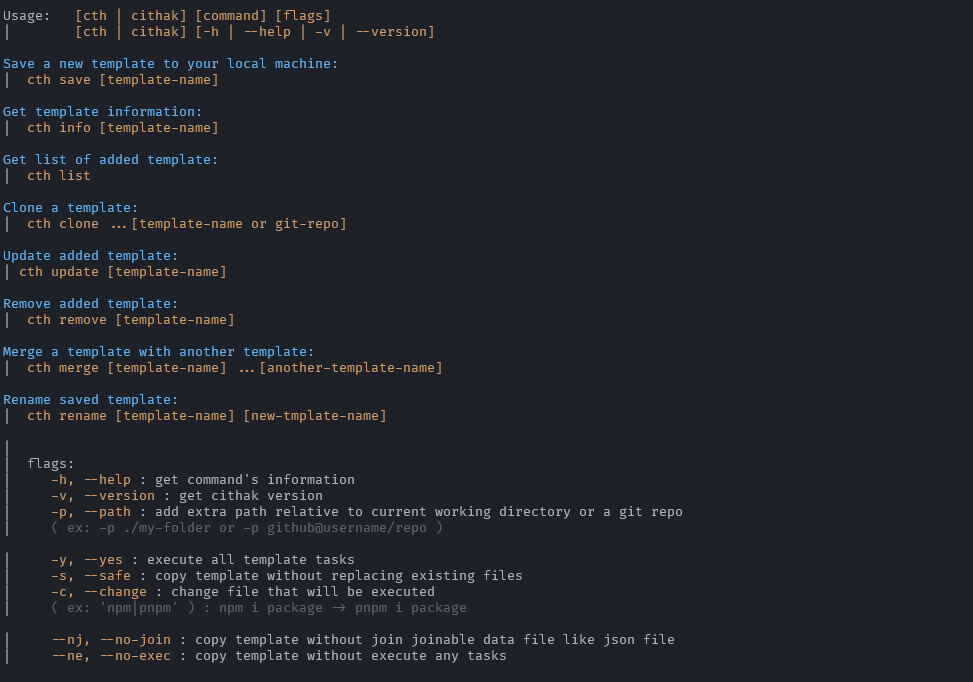
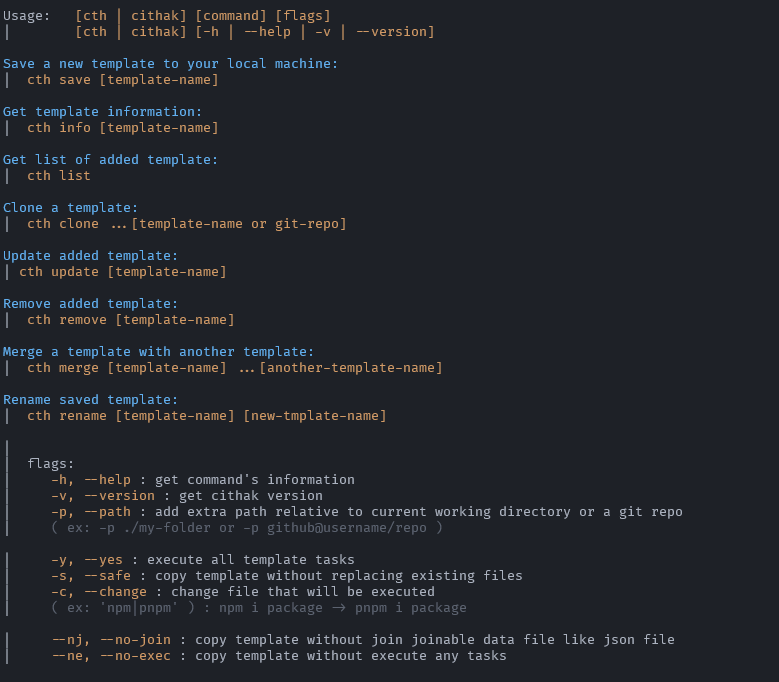
feat: add some features -> 1.0.0

diff --git a/src/helpers/file.js b/src/helpers/file.js
@@ -43,13 +43,13 @@ export function copyFolder(src, dest, options = {}) {
 
   Object.keys(files).forEach((file) => {
     const srcFile = join(src, file)
-    const destFile = join(dest, file.replace(/(?:\.{2}\/?)*/, ''))
+    let destFile = join(dest, file.replace(/(?:\.{2}\/?)*/, ''))
 
     if (fs.lstatSync(srcFile).isDirectory()) {
       // it's a directory
       if (!fs.existsSync(destFile)) {
         fs.mkdirSync(destFile, { recursive: true })
-        console.log(chalk.gray(`copied folder: ${file}`))
+        !options.silent && console.log(chalk.gray(`copied folder: ${file}`))
       }
     } else {
       // it's a file
@@ -58,23 +58,27 @@ export function copyFolder(src, dest, options = {}) {
 
       if (joinable) {
         for (let i = 0; i < joinables.length; i += 1) {
-          const { extension } = joinables[i]
+          const [extension, func] = joinables[i]
 
           if (srcFile.toLowerCase().endsWith(extension)) {
-            joiner = joinables[i]
+            joiner = {
+              extension,
+              func,
+            }
             break
           }
         }
       }
 
       if (joinable && joiner) {
-        const result = joiner.joiner(
+        const result = joiner.func(
           fs.readFileSync(srcFile).toString(),
           fs.readFileSync(destFile).toString()
         )
 
         fs.writeFileSync(destFile, result)
-        console.log(chalk.gray(`joined ${joiner.extension}: ${file}`))
+        !options.silent &&
+          console.log(chalk.gray(`joined ${joiner.extension}: ${file}`))
       } else {
         let action = 'copied'
 
@@ -84,17 +88,23 @@ export function copyFolder(src, dest, options = {}) {
           } else {
             action = 'replaced'
           }
+
+          if (options.index) {
+            const [newDestFile, i] = findIndex(destFile)
+            destFile = newDestFile
+            action = `copied as ${file} (${i})`
+          }
         }
 
         fs.copySync(srcFile, destFile, { overwrite: !options.safe })
 
-        console.log(chalk.gray(`${action}: ${file}`))
+        !options.silent && console.log(chalk.gray(`${action}: ${file}`))
       }
     }
   })
 }
 
-export function removeFolder(src) {
+export function removeFolder(src, options = {}) {
   const files = glob
     .sync('**/*', {
       dot: true,
@@ -107,12 +117,24 @@ export function removeFolder(src) {
 
     if (fs.lstatSync(srcFile).isDirectory()) {
       fs.rmdirSync(srcFile)
-      console.log(chalk.gray(`removed folder: ${file}`))
+      !options.silent && console.log(chalk.gray(`removed folder: ${file}`))
     } else {
       fs.rmSync(srcFile)
-      console.log(chalk.gray(`removed: ${file}`))
+      !options.silent && console.log(chalk.gray(`removed: ${file}`))
     }
   })
 
   fs.rmdirSync(src)
+}
+
+function findIndex(fileName) {
+  // return fileName -> fileName (1)
+  // used if options.index used
+
+  let i = 1
+  while (fs.existsSync(`${fileName} (${i})`)) {
+    i += 1
+  }
+
+  return [`${fileName} (${i})`, i]
 }

diff --git a/src/index.js b/src/index.js
@@ -4,6 +4,7 @@ import pkg from '../package.json'
 
 import * as pathHelper from './helpers/path'
 import * as errorHelper from './helpers/error'
+import { sendTips } from './helpers/tips'
 
 // actions
 import { help as helpAction } from './actions/help'
@@ -50,6 +51,8 @@ function parseArgs(rawArgs) {
         '--no-join': Boolean,
         '--no-exec': Boolean,
         '--path': String,
+        '--index': Boolean,
+        '--silent': Boolean,
         '-y': '--yes',
         '-s': '--safe',
         '-h': '--help',
@@ -58,6 +61,8 @@ function parseArgs(rawArgs) {
         '-p': '--path',
         '--nj': '--no-join',
         '--ne': '--no-exec',
+        '-i': '--index',
+        '--sl': '--silent',
       },
       {
         argv: rawArgs.slice(2),
@@ -75,6 +80,8 @@ function parseArgs(rawArgs) {
       safe: args['--safe'],
       noJoin: args['--no-join'],
       noExec: args['--no-exec'],
+      index: args['--index'],
+      silent: args['--silent'],
 
       changes: parseChanges(args['--change']),
     }
@@ -90,7 +97,7 @@ function parseChanges(str) {
     : []
 }
 
-exports.cli = (args) => {
+exports.cli = async (args) => {
   if (!fs.existsSync(pathHelper.STORAGE)) {
     fs.mkdirSync(pathHelper.STORAGE, { recursive: true })
     fs.writeFileSync(pathHelper.DATA_JSON, '{}')
@@ -102,12 +109,14 @@ exports.cli = (args) => {
   if (options.err) return
 
   if (options.needVersion) {
-    console.log(`v${pkg.version}`)
+    await console.log(`v${pkg.version}`)
   } else if (options.action === 'help' || options.needHelp) {
-    actions.help(options)
+    await actions.help(options)
   } else if (actions[options.action]) {
-    actions[options.action](options)
+    await actions[options.action](options)
   } else {
-    actions.help(options, errorHelper.INVALID_ACTION)
+    await actions.help(options, errorHelper.INVALID_ACTION)
   }
+
+  sendTips()
 }

diff --git a/src/helpers/join.js b/src/helpers/join.js
@@ -2,19 +2,20 @@ import YAML from 'yaml'
 import TOML from '@iarna/toml'
 
 export const joinables = [
-  createJoinable('.json', joinJson),
-  createJoinable('.prettierrc', joinJson),
-  createJoinable('.yaml', joinYaml),
-  createJoinable('.yml', joinYaml),
-  createJoinable('.toml', joinToml),
-  createJoinable('.env', joinText),
-  createJoinable('.gitignore', joinText),
-  createJoinable('.prettierignore', joinText),
-  createJoinable('.npmignore', joinText),
-  createJoinable('readme.md', joinTextNeat),
-  createJoinable('readme.markdown', joinTextNeat),
-  createJoinable('.txt', joinTextNeat),
-  createJoinable('.rest', joinTextNeat),
+  ['.json', joinJson],
+  ['.prettierrc', joinJson],
+  ['.yaml', joinYaml],
+  ['.yml', joinYaml],
+  ['.toml', joinToml],
+  ['.env', joinText],
+  ['.gitignore', joinText],
+  ['.prettierignore', joinText],
+  ['.npmignore', joinText],
+  ['readme.md', joinTextNeat],
+  ['readme.markdown', joinTextNeat],
+  ['readme.txt', joinTextNeat],
+  ['readme', joinTextNeat],
+  ['.rest', joinTextNeat],
 ]
 
 function joinJson(str1, str2) {
@@ -65,8 +66,4 @@ function deepMerge(target, ...sources) {
   }
 
   return deepMerge(target, ...sources)
-}
-
-function createJoinable(extension, joiner) {
-  return { extension, joiner }
 }

diff --git a/src/helpers/info.js b/src/helpers/info.js
@@ -56,7 +56,7 @@ export const rename = `
 export const flags = `
    |
    |  flags:
-   |     ${chalk.yellow('-h, --help')} : get command's information
+   |     ${chalk.yellow('-h, --help')} : get command information
    |     ${chalk.yellow('-v, --version')} : get cithak version
    |     ${chalk.yellow('-p, --path')} : add extra path relative to current working directory or a git repo
    |     ${chalk.gray('( ex: -p ./my-folder or -p github@username/repo )')}
@@ -65,9 +65,11 @@ export const flags = `
    |     ${chalk.yellow('-s, --safe')} : copy template without replacing existing files
    |     ${chalk.yellow('-c, --change')} : change file that will be executed
    |     ${chalk.gray('( ex: \'npm|pnpm\' ) : npm i package -> pnpm i package')}
-
+   
+   |     ${chalk.yellow('-i, --index')} : prefer index and not overwrite files
    |     ${chalk.yellow('--nj, --no-join')} : copy template without join joinable data file like json file
    |     ${chalk.yellow('--ne, --no-exec')} : copy template without execute any tasks
+   |     ${chalk.yellow('--sl, --silent')} : hide activity detail logs
 `
 
 export const complete =

diff --git a/scripts/setIcon.js b/scripts/setIcon.js
@@ -1,4 +1,5 @@
 const resourceHacker = require('node-resourcehacker')
+const path = require('path')
 
 // Use the beta release of Resource Hacker.
 process.env.SOURCE_RESOURCE_HACKER =
@@ -7,9 +8,9 @@ process.env.SOURCE_RESOURCE_HACKER =
 resourceHacker(
   {
     operation: 'addoverwrite',
-    input: '../build/bin/cithak-win.exe',
-    output: '../build/bin/cithak-win.exe',
-    resource: '../icon.ico',
+    input: path.join(__dirname, '../build/bin/cithak-win.exe'),
+    output: path.join(__dirname, '../build/bin/cithak-win.exe'),
+    resource: path.join(__dirname, '../icon.ico'),
     resourceType: 'ICONGROUP',
     resourceName: '1',
   },

diff --git a/src/actions/backup.js b/src/actions/backup.js
@@ -13,7 +13,11 @@ export async function backup(options) {
 
   fileHelper.copyFolder(
     pathHelper.STORAGE,
-    pathHelper.getTargetPath(targetPath)
+    pathHelper.getTargetPath(targetPath),
+    {
+      index: options.index,
+      silent: options.silent,
+    }
   )
 
   const storageData = fs.readFileSync(pathHelper.DATA_JSON).toString()
@@ -50,6 +54,8 @@ export async function load(options) {
         {
           safe: options.safe,
           join: !options.noJoin,
+          index: options.index,
+          silent: options.silent,
         }
       )
       storageData[key] = pathHelper.getStorageTemplatePath(key)

diff --git a/src/helpers/tips.js b/src/helpers/tips.js
@@ -1,0 +1,20 @@
+import chalk from 'chalk'
+
+const tips = [
+  "don't forget to update cithak",
+  'use -i to prefer index and not overwrite',
+  'only README.md will be joined',
+  'cithak is not case sensitive',
+  'use --sl or --silent to hide activity log',
+  'use --ne or --no-exec to ignore template tasks',
+  '.yaml and .yml is same',
+  'use -g or --git to initialize git',
+  'template.json is powerful',
+  'use cth backup to get all of your templates',
+]
+
+export function sendTips() {
+  const i = Math.round(Math.random() * (tips.length - 1))
+
+  console.log(chalk.blue('TIPS!'), tips[i])
+}

diff --git a/src/actions/save.js b/src/actions/save.js
@@ -78,6 +78,8 @@ export async function save(options) {
       fileHelper.copyFolder(templatePath, storageTemplatePath, {
         include: templateData.include,
         exclude: templateData.exclude,
+        index: options.index,
+        silent: options.silent,
       })
     } catch (err) {
       console.log(chalk.red('ERR!'), err)

diff --git a/src/actions/remove.js b/src/actions/remove.js
@@ -29,7 +29,10 @@ async function removeTemplate(options) {
   }
 
   // delete template folder from storage
-  fileHelper.removeFolder(templatePath)
+  fileHelper.removeFolder(templatePath, {
+    index: options.index,
+    silent: options.silent,
+  })
   delete storageData[options.templateName]
 
   // rewrite storage data

diff --git a/src/actions/clone.js b/src/actions/clone.js
@@ -62,6 +62,8 @@ async function cloneTemplate(options) {
     fileHelper.copyFolder(storageTemplatePath, projectPath, {
       safe: options.safe,
       join: !options.noJoin,
+      index: options.index,
+      silent: options.silent,
     })
   } catch (err) {
     console.log(chalk.red('ERR!'), err)

diff --git a/src/actions/update.js b/src/actions/update.js
@@ -47,6 +47,8 @@ export async function update(options) {
   fileHelper.copyFolder(templatePath, storageTemplatePath, {
     include: templateData.include,
     exclude: templateData.exclude,
+    index: options.index,
+    silent: options.silent,
   })
 
   console.log(

diff --git a/src/actions/merge.js b/src/actions/merge.js
@@ -32,6 +32,8 @@ async function mergeTemplate(template1, template2, options) {
   fileHelper.copyFolder(template2Path, template1Path, {
     safe: options.safe,
     join: !options.noJoin,
+    index: options.index,
+    silent: options.silent,
   })
 
   console.log(
